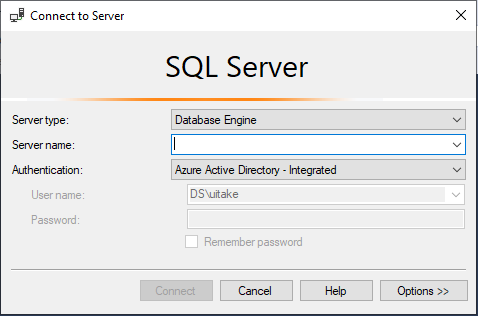
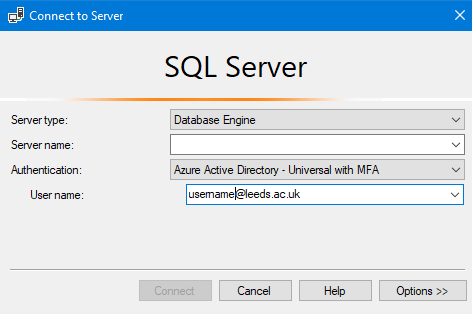
Changed authentication method of Azure SQL Database connections

diff --git a/docs/laser_how_to/using_azure_sql_database.md b/docs/laser_how_to/using_azure_sql_database.md
@@ -14,7 +14,8 @@ When SSMS opens you will be prompted for the connection details.
 Enter the following:
 - Server type = Database Engine
 - Server name = \<ServerName>.database.windows.net
-- Authentication = Azure Active Directory - Integrated
+- Authentication = Azure Active Directory - Universal with MFA
+- Username = <username>@leeds.ac.uk
 
 Click 'Options >>' and go to the second tab 'Connection Properties'.  
 ![ssms_connect_to_server_2.png](../../images/using_azure_sql_database/ssms_connect_to_server_2.png)
@@ -26,33 +27,35 @@ Click 'Connect' and your database will appear in the Object Explorer.
 ## Connect to database via ODBC 
 
 Your connection string will need to include at least:  
+- Driver name 
 - Server name
 - Database name
-- Driver name 
+- User name
 - Authentication type
 
 Azure SQL Database server names take the form `<ServerName>.database.windows.net`.
 
-LASER uses _'Azure Active Directory - Integrated'_ authentication to enable Contained Users to connect to Azure SQL Databases.
+LASER uses _'Azure Active Directory - Interactive'_ authentication to enable Contained Users to connect to Azure SQL Databases.
 
-Few ODBC drivers currently support 'Azure Active Directory - Integrated' authentication, including 'SQL Server Native Client 11.0'. A driver that does support it is '**ODBC Driver 17 For SQL Server**', so this must be specified in your connection string.
+Few ODBC drivers currently support 'Azure Active Directory - Interactive' authentication, including 'SQL Server Native Client 11.0'. A driver that does support it is '**ODBC Driver 17 For SQL Server**', so this must be specified in your connection string.
+
+Azure AD Interactive Authentication uses Azure Active Directory Multi-Factor Authentication technology to set up connection. In this mode, by providing the login ID, an Azure Authentication dialog is triggered and allows the user to input the password to complete the connection. The username is passed in the connection string.
 
 ## Examples
 
 Example connection string: 
 ```
-conn = "DRIVER={ODBC Driver 17 for SQL Server}; SERVER=tcp:<Server Name>.database.windows.net; DATABASE=<Database Name>; AUTHENTICATION=ActiveDirectoryIntegrated"
+conn = "DRIVER={ODBC Driver 17 for SQL Server}; SERVER=tcp:<Server Name>.database.windows.net; DATABASE=<Database Name>; UID=<username>@leeds.ac.uk; AUTHENTICATION=ActiveDirectoryInteractive"
 ```
 
 Example Python function to upload a *.csv file to Azure SQL Database using pandas & sqlalchemy:  
-
 ```
 import pandas as pd
 from sqlalchemy import create_engine
 import urllib
 
-def csv_to_sql(file, sql_server, sql_database, sql_schema, sql_tablename): 
-	conn = urllib.parse.quote_plus("DRIVER={ODBC Driver 17 for SQL Server};SERVER=tcp:" + sql_server + ";DATABASE=" + sql_database + ";Authentication=ActiveDirectoryIntegrated")
+def csv_to_sql(username, file, sql_server, sql_database, sql_schema, sql_tablename): 
+	conn = urllib.parse.quote_plus("DRIVER={ODBC Driver 17 for SQL Server};SERVER=tcp:" + sql_server + ";DATABASE=" + sql_database + ";UID=" + username + ";Authentication=ActiveDirectoryInteractive")
 	engine = create_engine("mssql+pyodbc:///?odbc_connect=%s" % conn, fast_executemany=True)
 	for chunk in pd.read_csv(file, chunksize=chunksize):
 		df = pd.DataFrame(chunk)
